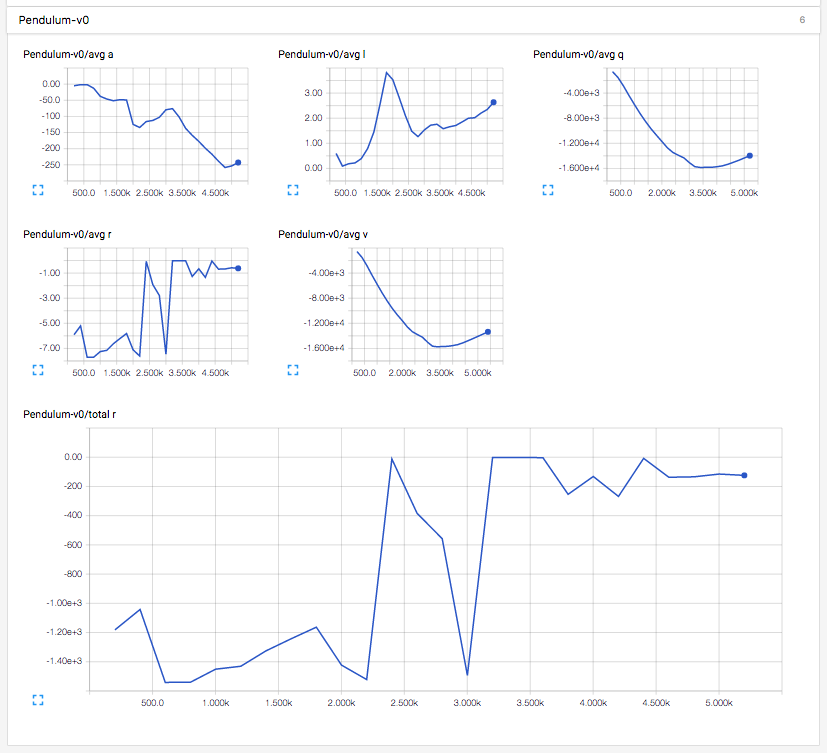
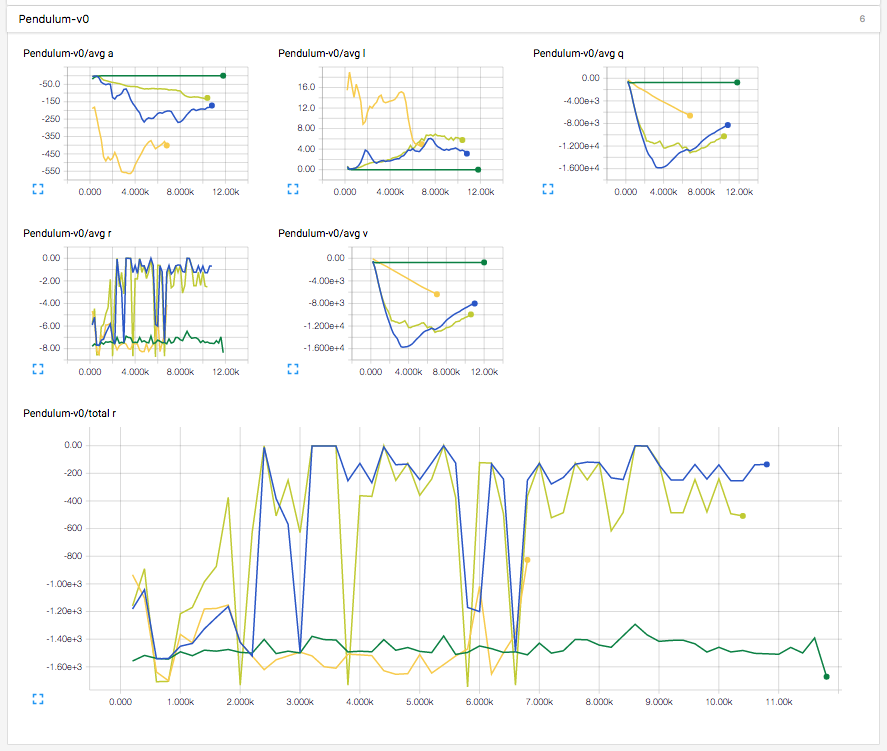
add more results and commands

diff --git a/README.md b/README.md
@@ -31,7 +31,12 @@ To test and record the screens with gym:
 
 ## Results
 
-Training details of `Pendulum-v0`.
+Training details of `Pendulum-v0` with different hyperparameters.
+
+    $ python main.py --env=Pendulum-v0 # dark green
+    $ python main.py --env=Pendulum-v0 --action_fn=tanh # light green
+    $ python main.py --env=Pendulum-v0 --use_batch_norm=True # yellow
+    $ python main.py --env=Pendulum-v0 --use_seperate_networks=True # green
 
 ![Pendulum-v0_2016-07-15](https://github.com/carpedm20/naf-tensorflow/blob/master/assets/Pendulum-v0_2016-07-15.png)
 
